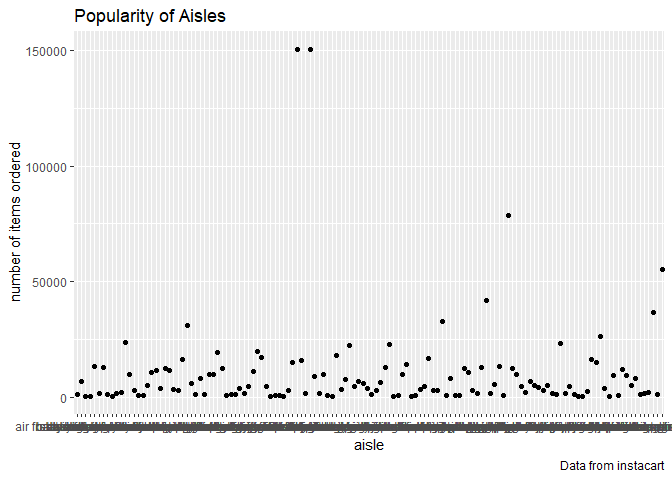
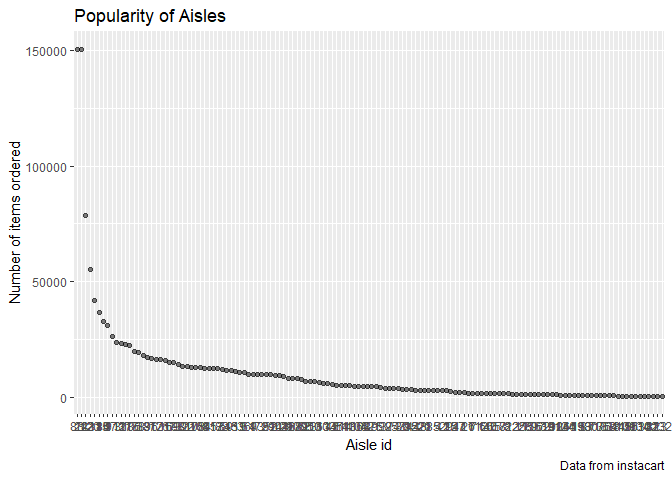
details modified

diff --git a/p8105_hw3_rj2543.md b/p8105_hw3_rj2543.md
@@ -25,12 +25,8 @@ brfss = brfss_smart2010 %>%
   janitor::clean_names() %>% # clean up variable names
   filter(topic == "Overall Health") %>% # focus on "Overall Health" topic
   filter(response %in% c("Excellent", "Very good", "Good", "Fair", "Poor")) %>%  # include responses from "Excellent" to "Poor"
-  mutate(response = forcats::fct_relevel(response, c("Excellent", "Very Good", "Good", "Fair", "Poor"))) # "response" as factor taking levels ordered, can we just use "mutate(response = factor(response, levels = c("Excellent", "Very Good", "Good", "Fair", "Poor")))"?
-```
-
-    ## Warning: Unknown levels in `f`: Very Good
-
-``` r
+  mutate(response = forcats::fct_relevel(response, c("Excellent", "Very good", "Good", "Fair", "Poor"))) # "response" as factor taking levels ordered, can we just use "mutate(response = factor(response, levels = c("Excellent", "Very good", "Good", "Fair", "Poor")))"?
+  
 brfss
 ```
 
@@ -95,10 +91,15 @@ brfss %>%
 
 ``` r
 brfss %>% 
-  group_by(year, locationabbr) %>% 
-  summarise(n = n_distinct(locationdesc))%>% 
+  group_by(year, locationabbr) %>% # focus on year and state
+  summarise(n = n_distinct(locationdesc))%>% # number of locations
   ggplot(aes(x = locationabbr, y = n, color = year)) + 
-  geom_line()
+  geom_line() + # "spaghetti plot"?
+  labs(
+    title = "Numbers of locations in each state from 2002 to 2010",
+    x = "State",
+    y = "Number of locations"
+  ) 
 ```
 
 ![](p8105_hw3_rj2543_files/figure-markdown_github/spaghetti%20plot-1.png)
@@ -107,31 +108,56 @@ brfss %>%
 
 ``` r
 brfss %>% 
-  filter(year %in% c(2002, 2006, 2010), locationabbr == "NY", response == "Excellent") %>% 
+  filter(year %in% c(2002, 2006, 2010), locationabbr == "NY", response == "Excellent") %>% #focus on certain years and response
   group_by(year) %>% 
-  summarise(mean = mean(data_value),
-            sd = sd(data_value))
+  summarise(mean = mean(data_value), # proportion of response is stored in "data_value" variable
+            sd = sd(data_value)) %>% 
+  knitr::kable(digits = 2) # make a table with reasonable proportion digits
 ```
 
-    ## # A tibble: 3 x 3
-    ##    year  mean    sd
-    ##   <int> <dbl> <dbl>
-    ## 1  2002  24.0  4.49
-    ## 2  2006  22.5  4.00
-    ## 3  2010  22.7  3.57
+|  year|   mean|    sd|
+|-----:|------:|-----:|
+|  2002|  24.04|  4.49|
+|  2006|  22.53|  4.00|
+|  2010|  22.70|  3.57|
 
--   For each year and state, compute the average proportion in each response category (taking the average across locations in a state). Make a five-panel plot that shows, for each response category separately, the distribution of these state-level averages over time
+-   For each year and state, compute the average proportion in each response category (taking the average across locations in a state). Make a five-panel plot that shows, for each response category separately, the distribution of these state-level averages over time.
 
 ``` r
-brfss %>% 
-  group_by(year, locationabbr, response) %>% 
-  summarise(mean = mean(data_value)) %>% 
-  ggplot(aes(x = locationabbr, y = mean, color = year)) + 
-  geom_line() + 
-  facet_grid(~response)
+brfss_1= brfss %>% 
+  group_by(year, locationabbr, response) %>% # average related to year, state and response
+  summarise(mean = mean(data_value))
+brfss_1
 ```
 
-    ## Warning: Removed 2 rows containing missing values (geom_path).
+    ## # A tibble: 2,215 x 4
+    ## # Groups:   year, locationabbr [?]
+    ##     year locationabbr response   mean
+    ##    <int> <chr>        <fct>     <dbl>
+    ##  1  2002 AK           Excellent  27.9
+    ##  2  2002 AK           Very good  33.7
+    ##  3  2002 AK           Good       23.8
+    ##  4  2002 AK           Fair        8.6
+    ##  5  2002 AK           Poor        5.9
+    ##  6  2002 AL           Excellent  18.5
+    ##  7  2002 AL           Very good  30.9
+    ##  8  2002 AL           Good       32.7
+    ##  9  2002 AL           Fair       12.1
+    ## 10  2002 AL           Poor        5.9
+    ## # ... with 2,205 more rows
+
+``` r
+ggplot(brfss_1, aes(x = locationabbr, y = mean, color = year)) + 
+  geom_line() + 
+  facet_grid(~response) + # five-panel plot
+  labs(
+    title = "Average proportion in each response category",
+    x = "State",
+    y = "Average proportion"
+  )
+```
+
+    ## Warning: Removed 1 rows containing missing values (geom_path).
 
 ![](p8105_hw3_rj2543_files/figure-markdown_github/five-panel%20plot-1.png)
 
@@ -255,23 +281,24 @@ instacart %>%
     ## 10      112 bread                          23635
     ## # ... with 124 more rows
 
-\*\* There are 134 dinstinct aisles. The top 3 popular aisles are 83-fresh vegetables (150609 items), 24-fresh fruits (150473 items) and 123-packaged vegetables fruits (78493 items). \*\*
+**There are 134 dinstinct aisles. The top 3 popular aisles are 83-fresh vegetables (150609 items), 24-fresh fruits (150473 items) and 123-packaged vegetables fruits (78493 items).**
 
 -   Make a plot that shows the number of items ordered in each aisle. Order aisles sensibly, and organize your plot so others can read it.
 
 ``` r
 instacart %>%
-  group_by(aisle_id, aisle) %>% 
+  group_by(aisle,aisle_id) %>% 
   summarise(n_obs = n()) %>% # count observations of each aisle
-  # mutate(aisle = forcats::fct_reorder(aisle, n_obs)) %>% 
-  ggplot() + 
-  geom_point(aes(x = aisle, y = n_obs)) + 
+  ungroup() %>% # in order to manipulate "aisle"
+  mutate(aisle = forcats::fct_reorder(aisle, desc(n_obs))) %>% # order "aisle" by n_obs (high to low)
+  ggplot(aes(x = reorder(aisle_id, desc(n_obs)), y = n_obs)) + # since aisle name is too long, so I change x-axis to be "aisle_id" instead
+  geom_point(alpha = 0.5) + 
   labs(
     title = "Popularity of Aisles",
-    x = "aisle",
-    y = "number of items ordered",
+    x = "Aisle id",
+    y = "Number of items ordered",
     caption = "Data from instacart"
-  )
+  ) 
 ```
 
 ![](p8105_hw3_rj2543_files/figure-markdown_github/aisle%20plot-1.png)
@@ -438,21 +465,26 @@ ny_noaa1 %>%
     ## 10   102    6552
     ## # ... with 271 more rows
 
-\*\* Despite NA and 0 mm, 25 mm, 13 mm and 51 mm are the top 3 most commonly observed values. \*\*
+**Despite NA, 0mm, 25 mm and 13 mm are the top 3 most commonly observed values.**
 
 -   Make a two-panel plot showing the average max temperature in January and in July in each station across years. Is there any observable / interpretable structure? Any outliers?
 
 ``` r
 ny_noaa1 %>% 
-  filter(month %in% c(1,7)) %>% 
-  group_by(year, month) %>% 
-  summarise(mean_tmax = mean(tmax, na.rm = TRUE)) %>% 
+  filter(month %in% c(1,7)) %>% # focus on January and July
+  group_by(year, month) %>% # across years
+  summarise(mean_tmax = mean(tmax, na.rm = TRUE)) %>% # need to remove so many NAs 
   ggplot(aes(x = year, y = mean_tmax)) +
   geom_line() +
-  facet_grid(.~month)
+  facet_grid(.~month) + # two-panel referred to two months?
+  labs(
+    title = "Average max temperature in January and July across years",
+    x = "Year",
+    y = "Average max temperature (degree C)"
+  )
 ```
 
-![](p8105_hw3_rj2543_files/figure-markdown_github/average%20tmax%20in%20Jan%20&%20Jul-1.png)
+![](p8105_hw3_rj2543_files/figure-markdown_github/average%20tmax%20in%20Jan%20&%20Jul-1.png) **The average max temperature is around 0 degree C in January and 27 in July. The variance of that in July seems much smaller compared to January.**
 
 -   Make a two-panel plot showing
 
@@ -462,15 +494,25 @@ ny_noaa1 %>%
 
 ``` r
 tmax_tmin = ny_noaa1 %>% 
-  filter(!is.na(tmax) & !is.na(tmin)) %>% 
+  filter(!is.na(tmax) & !is.na(tmin)) %>% # remove NAs
   ggplot(aes(x = tmax, y = tmin, color = year)) +
-  geom_smooth(se = FALSE)
+  geom_smooth(se = FALSE) +
+  labs(
+    title = "Max temperature vs min temperature",
+    x = "Max temperature (degree C)",
+    y = "Min temperature (degree C)"
+  )
 
 snowfall_distribution = ny_noaa1 %>% 
   mutate(year = as.factor(year)) %>% 
   filter(snow > 0 & snow < 100) %>% 
   ggplot(aes(x = year, y = snow)) +
   geom_violin(aes(fill = year)) +
+  labs(
+    title = "Distribution of snowfall (between 0 and 100 mm) across years",
+    x = "Year",
+    y = "Snowfall (mm)"
+  ) + 
   theme(legend.position = "bottom")
 
 tmax_tmin/snowfall_distribution
